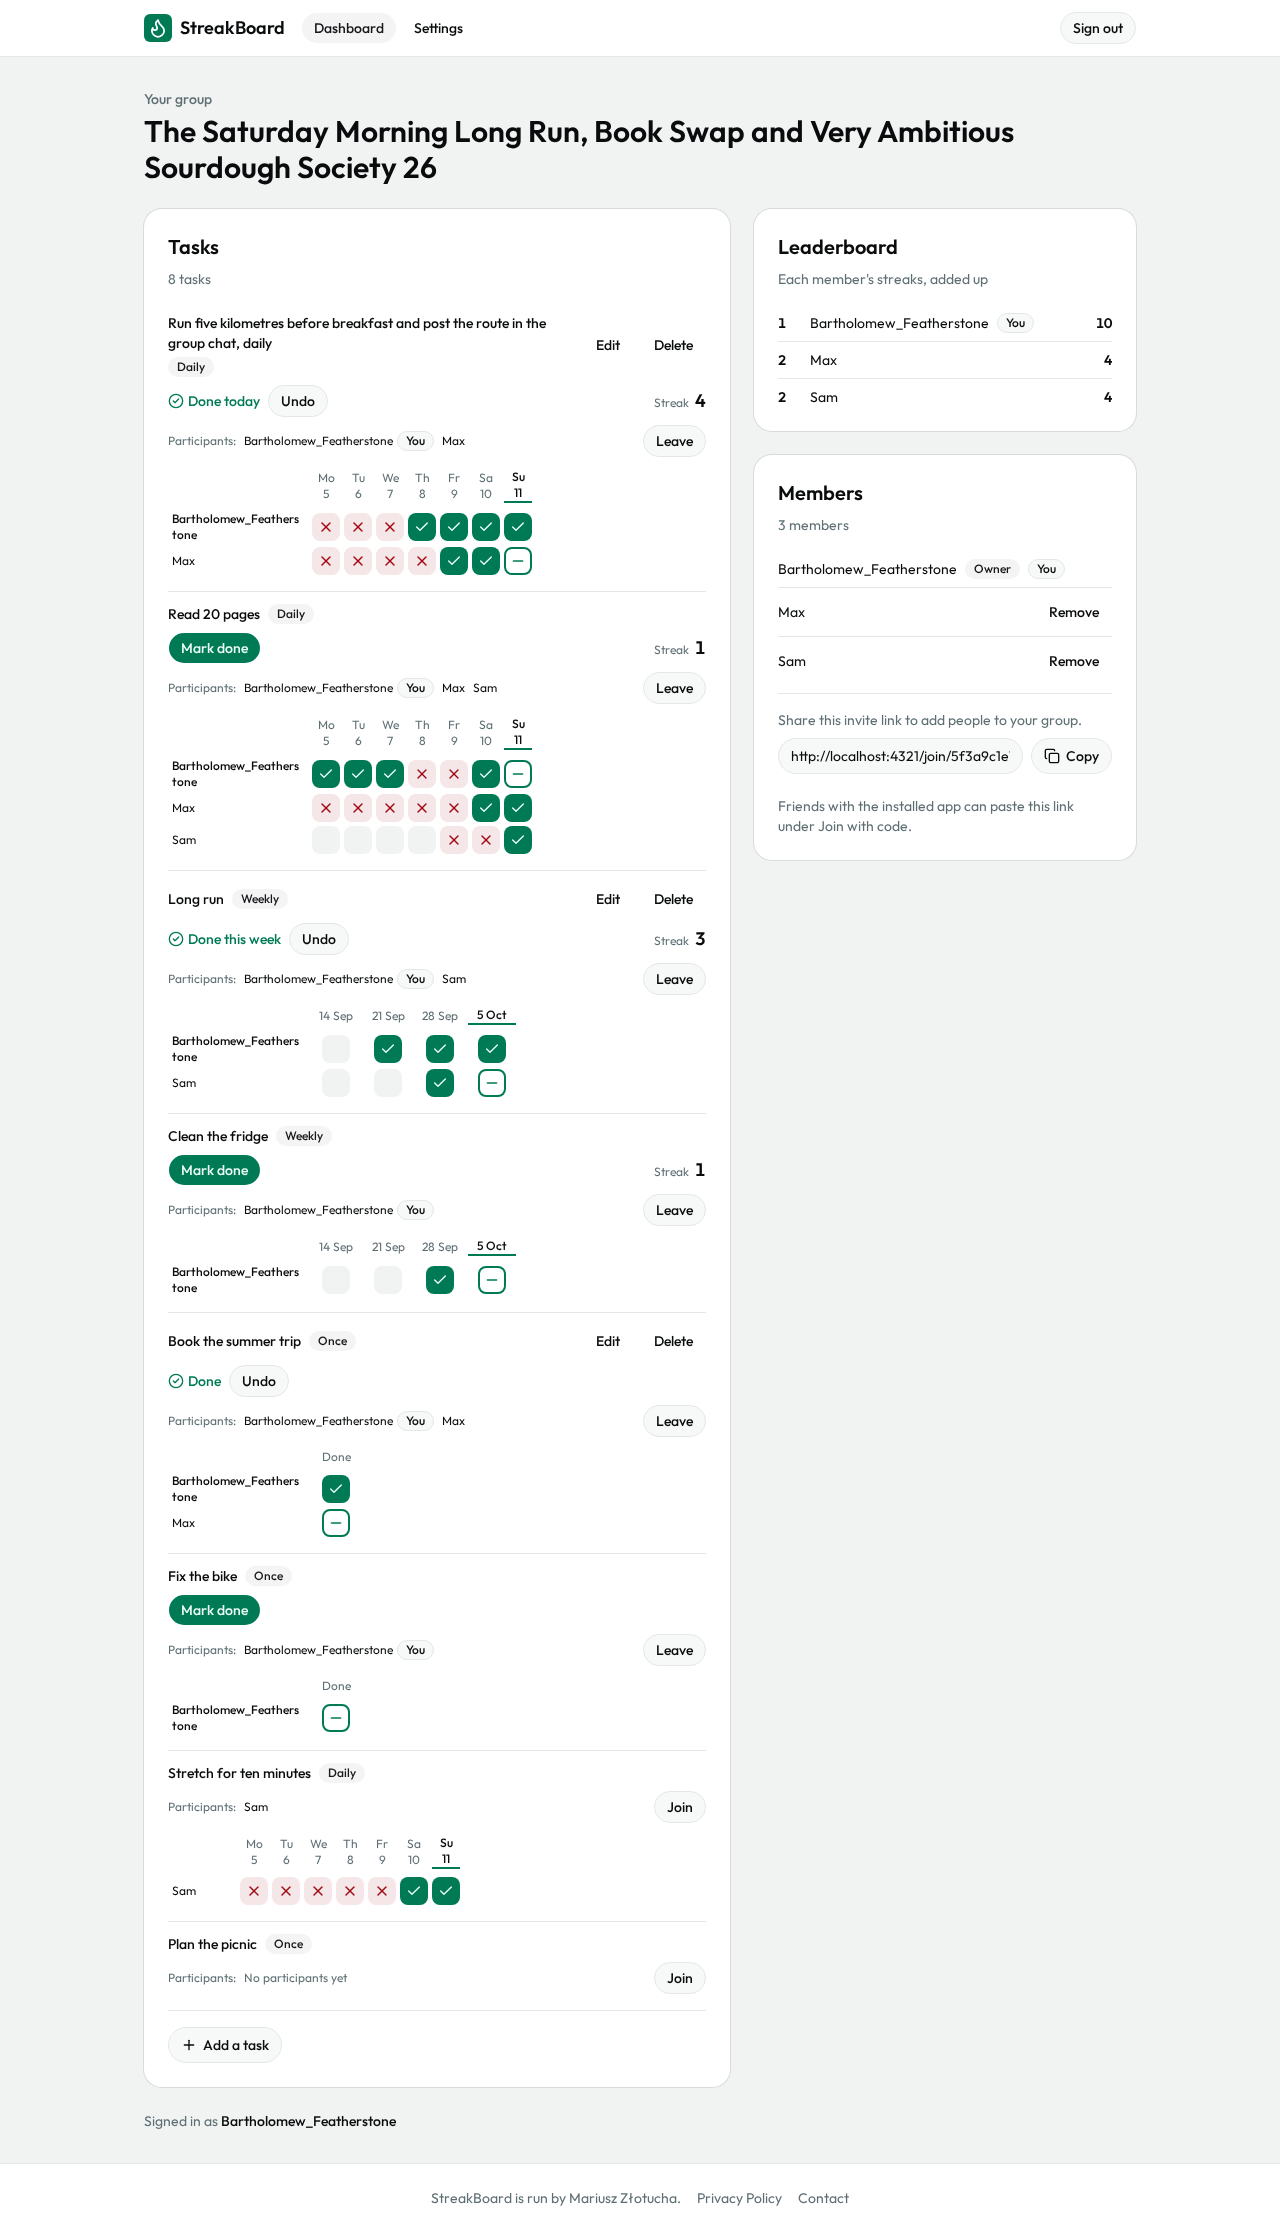
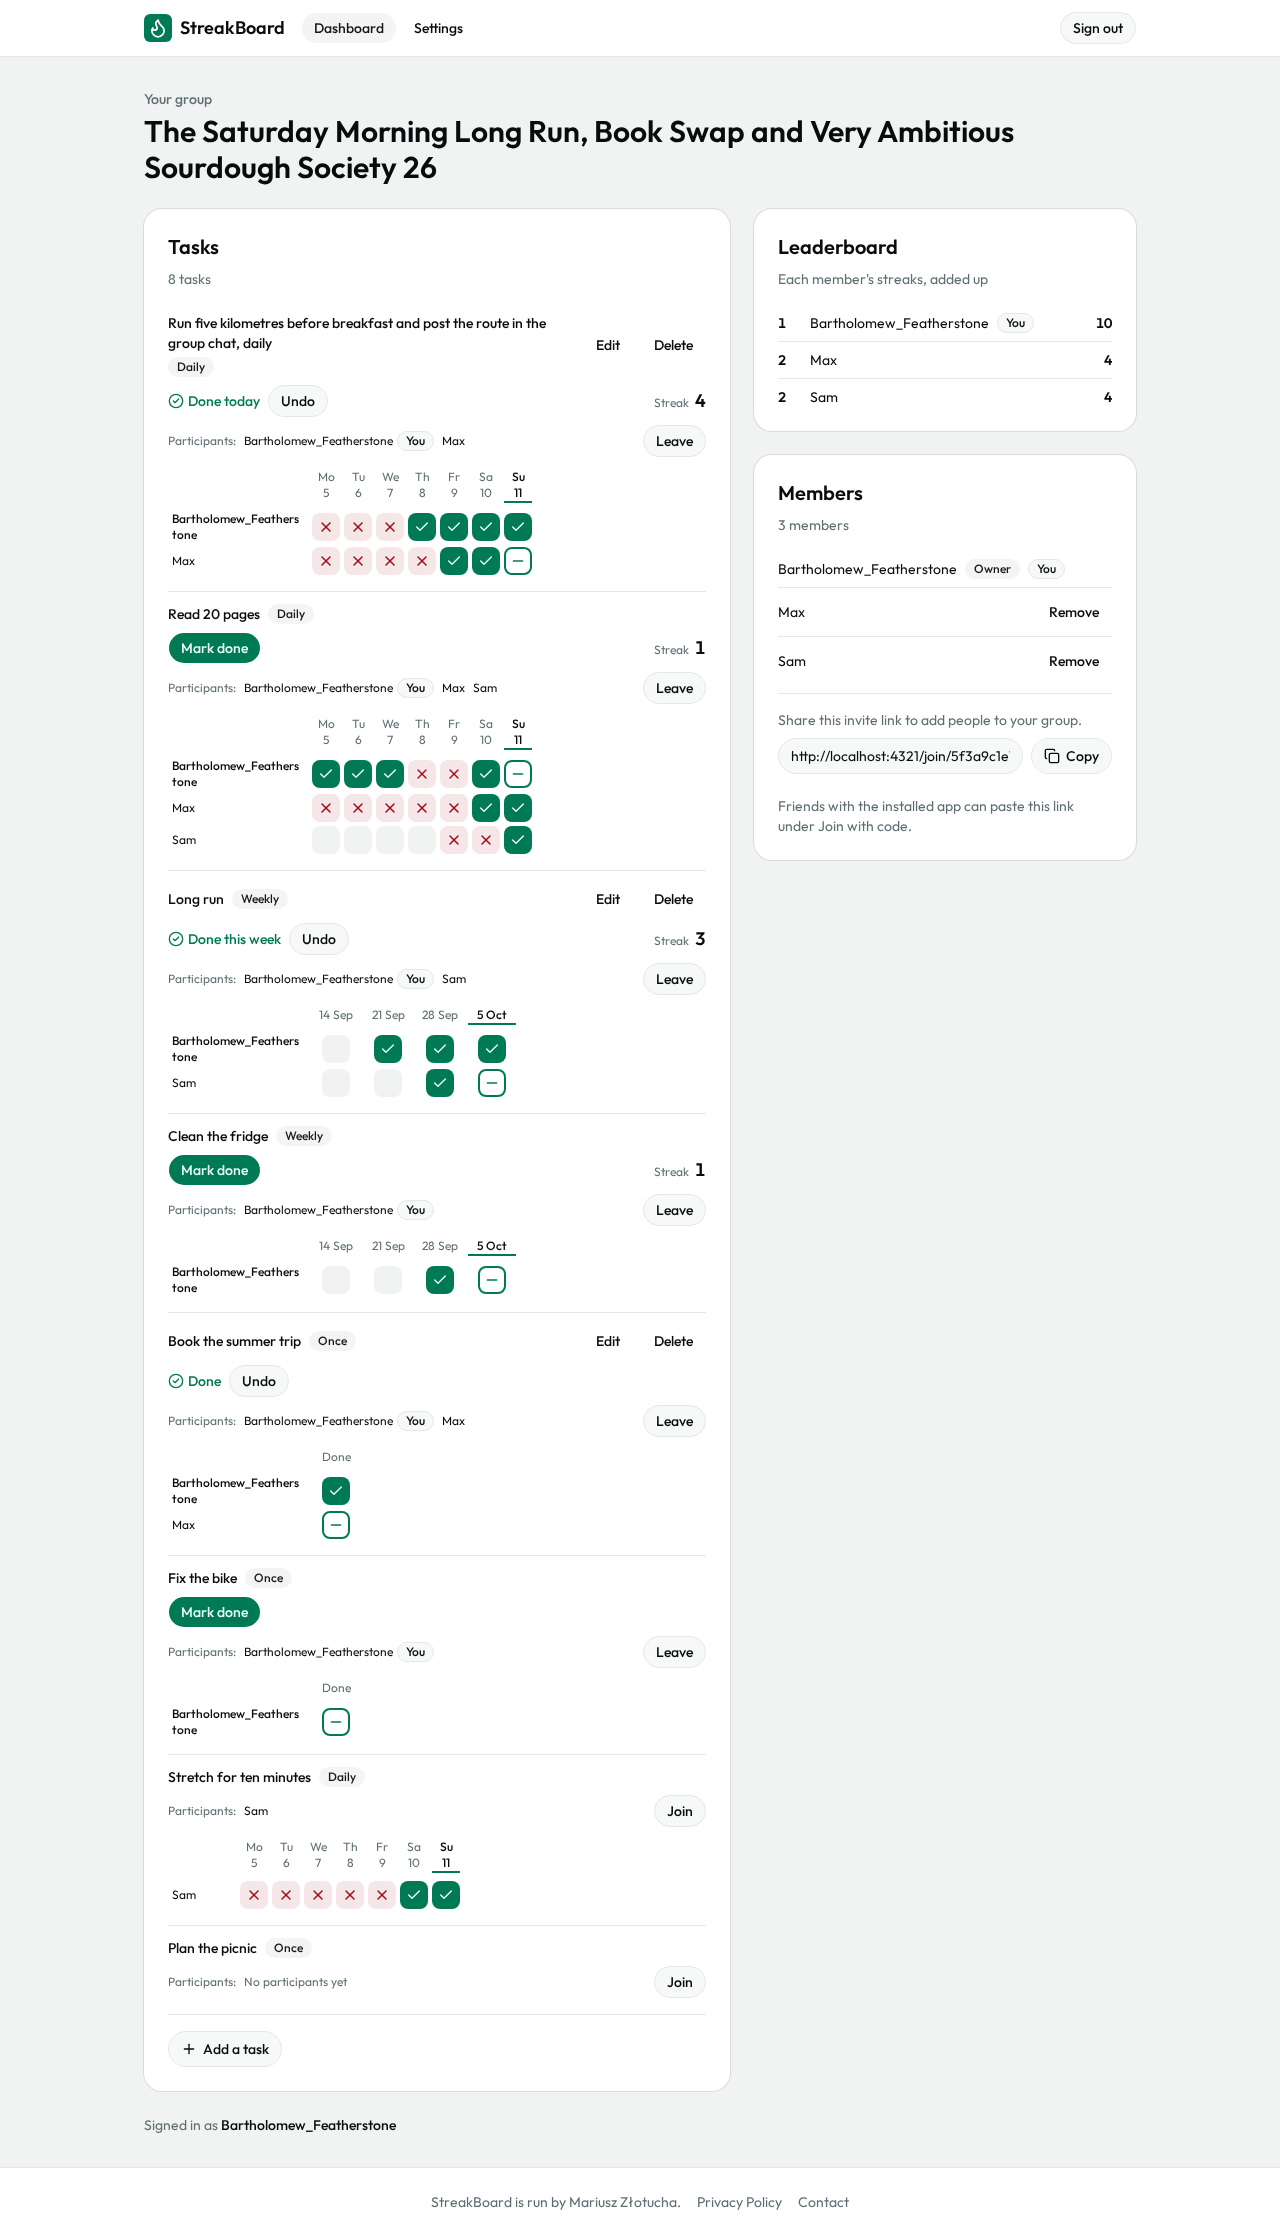
fix(grid-state-feedback): apply impl review fixes (review)
- grid-cell test: pin border-2 and text-primary on the open cell and the icon of each state
- CheckoffGrid: every period header carries a 2 px bottom border, transparent unless marked, so the headers keep one height
- retake the nine states screenshots
- add the implementation review report (APPROVED, F1-F3 fixed); change.md impl_reviewed

Refs: #218

Claude-Session: https://claude.ai/code/session_01A6yYexj95SJuZbH6zVkSRh

diff --git a/tests/unit/grid-cell.test.ts b/tests/unit/grid-cell.test.ts
@@ -29,17 +29,21 @@ describe("GridCell", () => {
     expect(new Set(classes).size).toBe(STATES.length);
   });
 
-  it("shows an icon for done, missed and open, and none for not joined", () => {
+  it("shows its own icon for done, missed and open, and none for not joined", () => {
+    const icons = { done: "lucide-check", missed: "lucide-x", open: "lucide-minus" } as const;
     for (const state of ["done", "missed", "open"] as const) {
       expect(markup[state].match(/<svg/g)).toHaveLength(1);
+      expect(markup[state]).toContain(icons[state]);
     }
     expect(markup.notJoined).not.toContain("<svg");
   });
 
   it("draws the open cell as an outlined box on the card colour", () => {
     const classes = classOf(markup.open).split(" ");
+    expect(classes).toContain("border-2");
     expect(classes).toContain("border-primary");
     expect(classes).toContain("bg-card");
+    expect(classes).toContain("text-primary");
   });
 
   it("draws the not-joined cell as a plain muted square without a border", () => {

diff --git a/context/changes/grid-state-feedback/reviews/impl-review.md b/context/changes/grid-state-feedback/reviews/impl-review.md
@@ -1,0 +1,66 @@
+<!-- IMPL-REVIEW-REPORT -->
+
+# Implementation Review: Grid state feedback (S-21)
+
+- **Plan**: context/changes/grid-state-feedback/plan.md
+- **Scope**: Full plan (Phase 1 of 1)
+- **Reviewed phases**: 1
+- **Date**: 2026-10-20
+- **Verdict**: APPROVED
+- **Findings**: 0 critical, 1 warning, 2 observations
+
+## Verdicts
+
+| Dimension           | Verdict |
+| ------------------- | ------- |
+| Plan Adherence      | PASS    |
+| Scope Discipline    | PASS    |
+| Safety & Quality    | WARNING |
+| Architecture        | PASS    |
+| Pattern Consistency | PASS    |
+| Success Criteria    | PASS    |
+
+## Evidence
+
+- Plan drift: items 1-8 all MATCH (`grid-labels.ts`, `CheckoffGrid.astro`, `GridCell.tsx`, `token-contrast.mjs`, both unit test files, smoke matcher and its two uses, e2e helpers, nine screenshots); item 9 is deferred to the closing docs PR by design. "What We're NOT Doing" respected: S-22's three files untouched, no token or `.dark` edit, no fifth state, no mark on `once`, no ring, nothing after `saved`. EXTRA is bookkeeping only (Progress ticks, `change.md`, roadmap S-21 `in-progress`).
+- Automated rows re-run in this review on the unchanged code tree (`git diff 2edc074 -- src scripts tests CLAUDE.md` empty): unit 733/733, lint, prettier, `astro check` 0 errors, build exit 0, contrast `primary on card` 5.37:1 PASS, S-22 diff empty, nine PNGs present. Smoke (331 PASS), e2e (5/5), the visual gate ("All screenshots taken") and the red proof ran on the same tree during the goal run and are not repeated here.
+- Manual rows 1.10-1.16 are all unticked: pending, none ticked without evidence.
+- Probed by the quality agent: the smoke regex rejects no mark, wrong word, an earlier or a non-last marked `<th>`, a marked `<th>` in `<tbody>` and another task's `<li>`, with no backtracking blow-up; the e2e locators are date-independent and the same on both projects; no XSS surface (the word is a constant).
+
+## Findings
+
+### F1 — The "outlined box" unit test does not pin the border width
+
+- **Severity**: ⚠ WARNING
+- **Impact**: 🏃 LOW — quick decision; fix is obvious and narrowly scoped
+- **Dimension**: Safety & Quality
+- **Location**: tests/unit/grid-cell.test.ts:39-43
+- **Detail**: The test asserts `border-primary` and `bg-card` only. In Tailwind 4 with preflight, `border-primary` sets just the colour and the border width stays 0, so removing `border-2` from `STATE_CLASSES.open` keeps the test green while the outline disappears: the feature this slice is about.
+- **Fix**: Also assert `border-2` (and `text-primary`, the dash colour) in that test.
+- **Decision**: FIXED: Fix now. The open-cell test also asserts `border-2` and `text-primary`; break-check: removing `border-2` from `STATE_CLASSES.open` turns it red.
+
+### F2 — The icon test does not tell the three icons apart
+
+- **Severity**: ℹ OBSERVATION
+- **Impact**: 🏃 LOW — quick decision; fix is obvious and narrowly scoped
+- **Dimension**: Safety & Quality
+- **Location**: tests/unit/grid-cell.test.ts:32-37
+- **Detail**: It counts one `<svg` per state with an icon, so swapping the `Minus` of `open` or the `X` of `missed` for another icon would still pass. The shape is the only non-colour cue for the state.
+- **Fix**: Assert `lucide-check`, `lucide-x` and `lucide-minus` on `done`, `missed` and `open` respectively.
+- **Decision**: FIXED: Fix now. The icon test asserts `lucide-check`, `lucide-x` and `lucide-minus` per state; break-check: `open` drawn with `Check` turns it red.
+
+### F3 — The marked header is 2 px taller than its neighbours
+
+- **Severity**: ℹ OBSERVATION
+- **Impact**: 🏃 LOW — quick decision; fix is obvious and narrowly scoped
+- **Dimension**: Pattern Consistency
+- **Location**: src/components/dashboard/CheckoffGrid.astro:46-48
+- **Detail**: `border-b-2` adds height to the marked `<th>` only; the other headers, vertically centred in the row, sit about 1 px higher than the marked one. Not visible in the nine screenshots at the sizes shot. Fixing it (`border-b-2 border-transparent` on the unmarked branch) would shift every header by a pixel and require the nine screenshots to be retaken and reviewed again.
+- **Fix**: Leave as is, or add `border-b-2 border-transparent` to the unmarked headers and retake the screenshots.
+- **Decision**: FIXED: Fix now. Every header has `border-b-2` (transparent unless marked), so the row's headers keep one height. This deviates from plan item 2 ("every other `<th>` is unchanged") on purpose; the nine screenshots were retaken, smoke 331 PASS, e2e 5/5, "All screenshots taken".
+
+## Noted, no action
+
+- `aria-current="true"` on the header plus the sr-only word may be announced twice by some screen readers; `aria-current="date"` is more precise, but smoke and e2e pin `"true"` and the plan chose it.
+- `.dark` is never applied at runtime; if it ever is, the dark `primary` on `card` is about 2.2:1 (the plan records this).
+- Smoke and e2e cover the daily grid only; the weekly wiring is bound by the `currentPeriodWord` unit test and the screenshots (plan review F1, accepted).

diff --git a/context/changes/grid-state-feedback/change.md b/context/changes/grid-state-feedback/change.md
@@ -1,7 +1,7 @@
 ---
 change_id: grid-state-feedback
 title: Grid state feedback
-status: implemented
+status: impl_reviewed
 created: 2026-10-19
 updated: 2026-10-20
 archived_at: null
